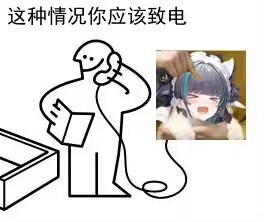
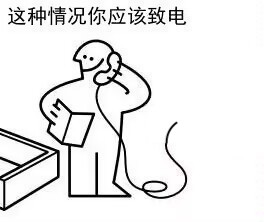
optimize call

Changed region(s): [[0.5758, 0.2162, 0.9394, 0.6486]]

diff --git a/tool.py b/tool.py
@@ -604,11 +604,11 @@ class DrawTool:
             bounceImages[0].save(resultPath, format="GIF", append_images=bounceImages[1:], save_all=True, duration=70, loop=0)
             return [resultPath]
         elif text.startswith("致电"):
-            avatar = getAvatar(text[2:], (95, 95), needClipToCircle=False)
+            avatar = getAvatar(text[2:], (90, 90))
             if avatar is None:
                 return None
             call = Image.open(os.path.join(self.drawPath, "call.jpg"))
-            call.paste(avatar, (153, 48), avatar.split()[3])
+            call.paste(avatar, (156, 50), avatar.split()[3])
             resultPath = os.path.join(self.resultDirPath, "{}.jpg".format(time.time()))
             call.save(resultPath)
             return [resultPath]

diff --git a/README.md b/README.md
@@ -130,7 +130,7 @@
 
 ### 致电
 
-<img src="result/1669396460.2140968.jpg" alt="1669396460.2140968" width = "500" />
+<img src="result/1669462756.662787.jpg" alt="1669462756.662787" width = "500" />
 
 ### 需要
 
